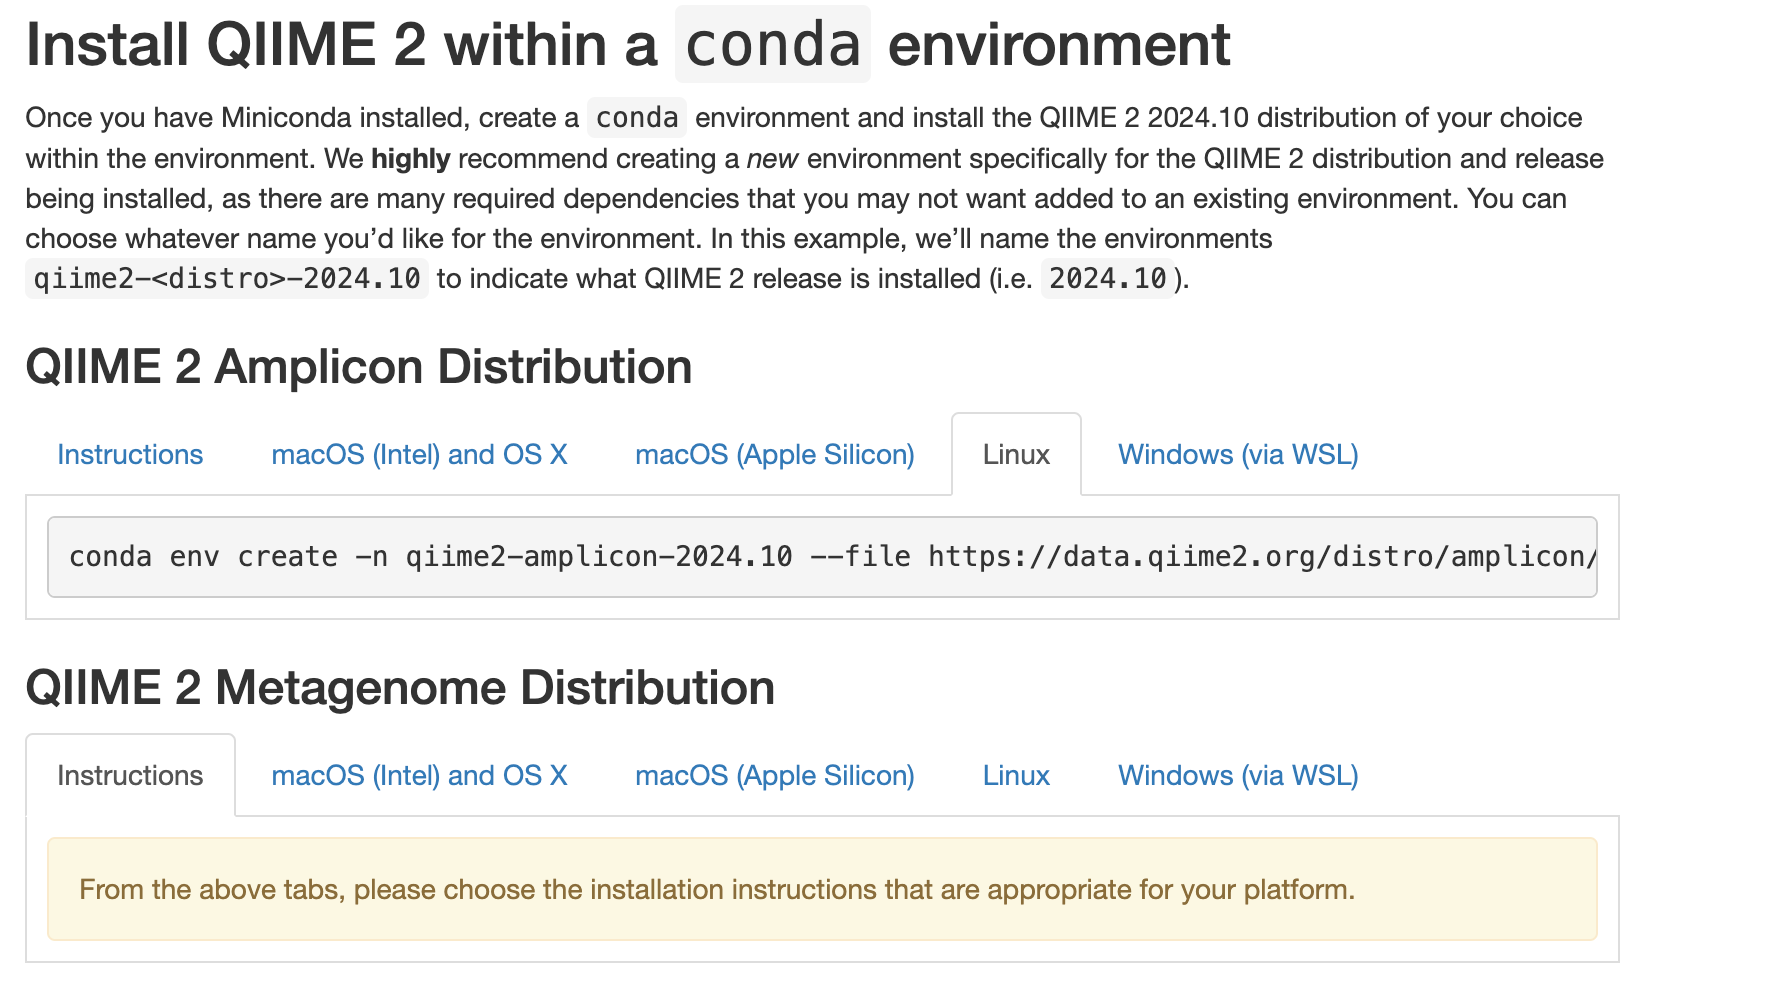
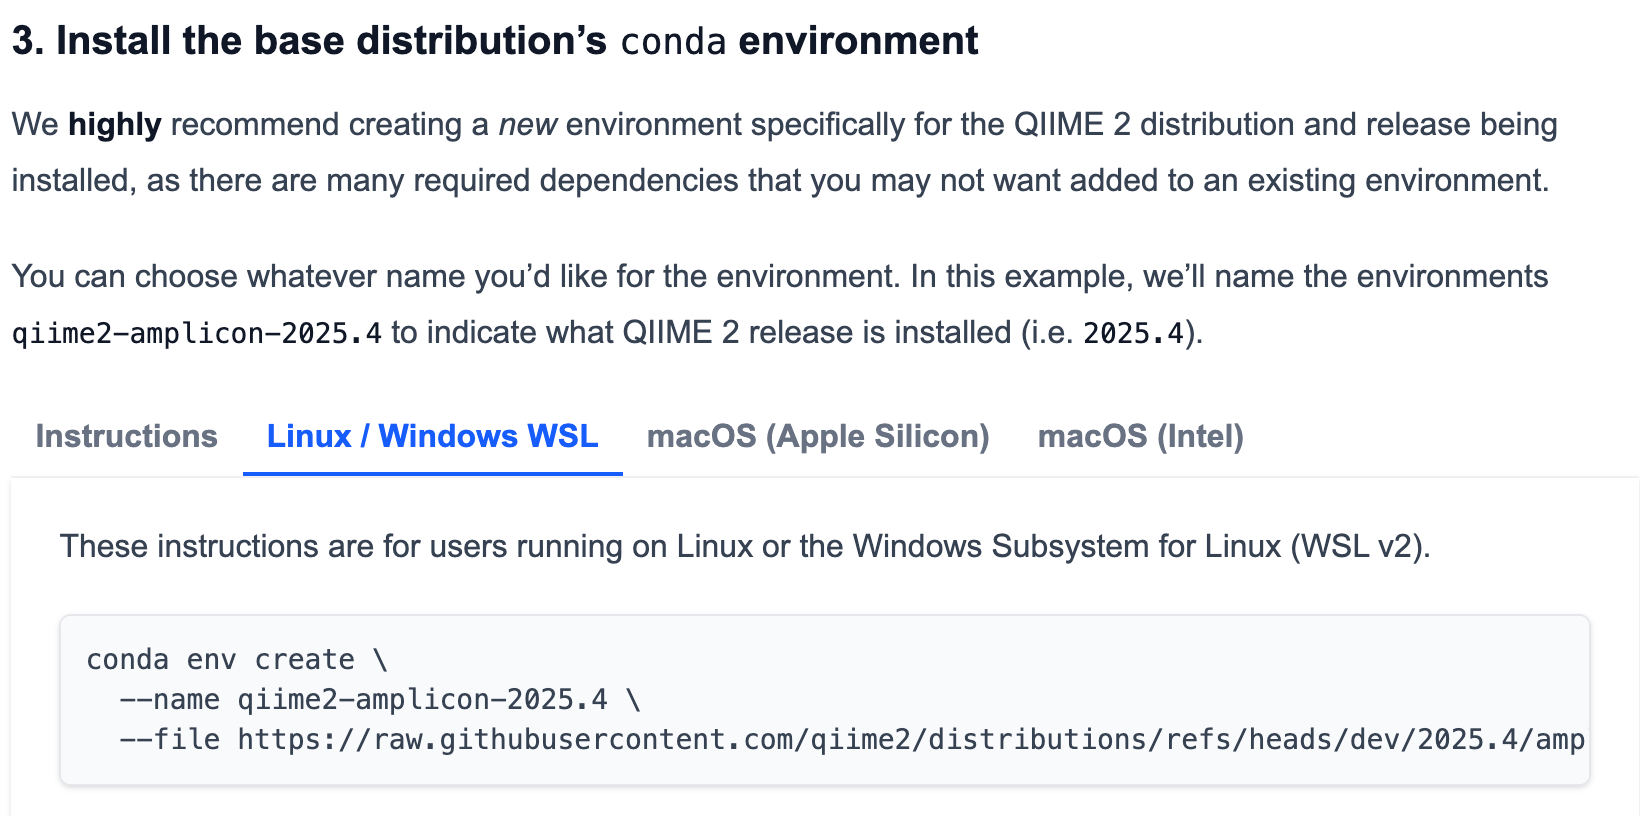
2025年度用Update

diff --git a/03_qiime2のインストール.md b/03_qiime2のインストール.md
@@ -1,22 +1,26 @@
 # Qiime2関連URL
 
 - [Qiime2 Top](https://qiime2.org/)
-- [Document](https://docs.qiime2.org/2024.10/)
-- [Install](https://docs.qiime2.org/2024.10/install/)
+- [Document](https://amplicon-docs.qiime2.org/en/latest/)
+- [Install](https://library.qiime2.org/quickstart/amplicon)
 
 ※ Qiime2は定期的にバージョンアップされており、そのたびにドキュメントも更新されています。URL中の`2024.10`は、バージョンを指しています。できるだけ最新を参照してください。
 
 # Install
 ### 1. Installページにアクセス
-- [https://docs.qiime2.org/2024.10/install/](https://docs.qiime2.org/2024.10/install/)
-- `Natively installing QIIME 2`をクリック。
-![](./img/03_qiime2_install-page.png)
+- [https://library.qiime2.org/quickstart/amplicon](https://library.qiime2.org/quickstart/amplicon)
+- `Using conda`をクリック。
+
+<br>
+
+※ [ドキュメントページ](https://amplicon-docs.qiime2.org/en/latest/)から行く場合はこちら<br>
+
+![](./img/03_qiime2_install-page_2025.png)
 
 ### 2. condaでのインストール方法を選択
-- 今回は、`Amplicon`解析、
-`Install QIIME 2 within a conda environment` > `QIIME 2 Amplicon Distribution`
+- 今回は、`Conda` を使用します。`Using Conda` > `Install the base distribution’s conda environment`
 を見つける。
-- `Linux`をクリック。
+- `Linux / Windows WSL`をクリック。
 ![](./img//03_qiime2_install-page-linux.png)
 
 ### 3. インストール
@@ -45,12 +49,12 @@ conda env list
 # conda environments:
 #
 base                 * /home/coder/miniforge3
-qiime2-amplicon-2024.10   /home/coder/miniforge3/envs/qiime2-amplicon-2024.10
+qiime2-amplicon-2025.4   /home/coder/miniforge3/envs/qiime2-amplicon-2025.4
 ```
 
-`qiime2-amplicon-2024.10`をコピーし、以下のコマンドを実行して有効化します。<br>
+`qiime2-amplicon-2025.4`をコピーし、以下のコマンドを実行して有効化します。<br>
 ```
-conda activate qiime2-amplicon-2024.10
+conda activate qiime2-amplicon-2025.4
 ```
 
 これで、Qiime2環境が有効化されました。<br>

diff --git a/04_qiime2.md b/04_qiime2.md
@@ -53,7 +53,7 @@ seqfu metadata -f manifest -s _S raw-data > manifest.tsv
 ## qiime2環境のactivate
 
 ```bash
-conda activate qiime2-amplicon-2024.10
+conda activate qiime2-amplicon-2025.4
 ```
 
 ## 01_data-import
@@ -174,13 +174,8 @@ qiime feature-table tabulate-seqs --i-data ./03_denoise/rep-seqs-dada2.qza --o-v
 
 ### 分類器(データベース)のダウンロード
 
-[https://docs.qiime2.org/2024.10/](https://docs.qiime2.org/2024.10/)
+[https://library.qiime2.org/data-resources](https://library.qiime2.org/data-resources)
 ![](./img//04_classifier-download.png)
-
-[https://docs.qiime2.org/2024.10/data-resources/](https://docs.qiime2.org/2024.10/data-resources/)
-![](./img//04_classifier-download2.png)
-
-![](./img/04_classifier-download3.png)
 
 ```bash
 
